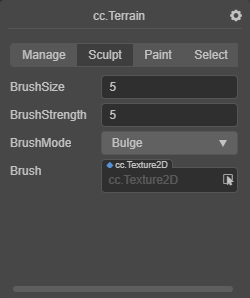
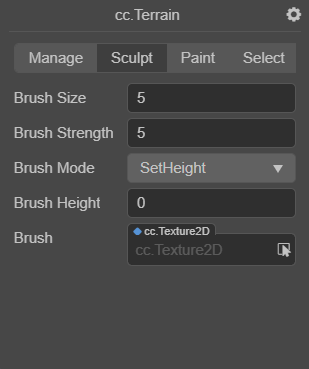
增加地形整平模式和SetHeight模式的文档

diff --git a/zh/editor/terrain/index.md b/zh/editor/terrain/index.md
@@ -58,7 +58,7 @@
 | 参数 | 说明 |
 | :--- | :-- |
 | TileSize | 地形 Tile 的大小，目前一个地形块由 32 x 32 个 Tile 组成，所以一个地形块的边长是 **32 x TileSize** |
-| WeightMapSize | 权重图大小 |
+| WeightMapSize | 权重图s |
 | LightmapSize | 光照贴图大小 |
 | BlockCount | 地形块在两个维度上的数量（**注意**：若该值设置过大会造成顶点数过多，导致卡顿） |
 
@@ -70,12 +70,21 @@
 
 | 参数 | 说明 |
 | :--- | :--- |
-| BrushSize     | 画刷的大小 |
-| BrushStrength | 画刷的力度  |
-| BrushMode | 画刷类型，包括 **Bulge**、**Sunken** 和 **Smooth** |
-| Brush | 自定义画刷样式，通过选取样式图片生成自定义画刷 |
+| Brush Size | 画刷的大小 |
+| Brush Strength | 画刷的力度  |
+| Brush Mode | 画刷类型，包括 **Bulge**、**Sunken**、**Smooth**、**Flatten**、**Set Height** |
+| Brush Height | 画刷高度，只有画刷模式为**Set Height**时生效 |
+| Brush | 自定义画刷样式，通过选取样式图片生成自定义画刷，使用R通道来作为画刷蒙版 |
 
-可通过 **鼠标左键** 控制地形的 **隆起**，通过 **Shift + 鼠标左键** 控制地形的 **凹陷**。而隆起/凹陷的操作往往会使地形看上去很尖锐，此时就可以使用平滑功能进行过度。
+| 画刷模式 | 说明 |
+| :--- | :--- |
+| Bulge | 隆起地形 |
+| Sunken | 下凹地形  |
+| Smooth | 平滑地形 |
+| Flatten | 整平地形 |
+| Set Height | 使用**画刷高度**设置地形高度 |
+
+通过 **鼠标左键** 来雕刻地形，当使用**Bulge**模式时，还可以通过 **Shift + 鼠标左键** 下凹地形
 
 ### 涂料（Paint）
 

diff --git a/en/editor/terrain/index.md b/en/editor/terrain/index.md
@@ -69,12 +69,21 @@ Sculpting is changing the shape of a terrain.
 
 | Parameter | Description |
 | :--- | :--- |
-| **BrushSize**     | The size of the brush |
-| **BrushStrength** | The strength of the brush |
-| **BrushMode** | The type of the brush, including **Bulge**, **Sunken** and **Smooth** |
-| **Brush** | Custom brush style, by selecting a style picture to generate a custom brush. |
+| **Brush Size**     | The size of the brush |
+| **Brush Strength** | The strength of the brush |
+| **Brush Mode** | The mode of the brush, including **Bulge**, **Sunken**, **Smooth**, **Flatten**, **Set Height** |
+| **Brush Height** | The height of the brush, only use for **Set Height** mode |
+| **Brush** | Custom brush style, by selecting a style picture to generate a custom brush, use a channel as brush mask |
 
-To control the bulging/depression of the terrain, use the **left mouse** button and the **Shift + left mouse** button, respectively. The bulge and depression operation often makes the terrain look sharp, use the smoothing function to overdo it.
+| Brush mode | Description |
+| :--- | :--- |
+| Bulge | Bulge terrain |
+| Sunken | Sunken terrain |
+| Smooth | Smooth terrain |
+| Flatten | Flatten terrain |
+| Set Height | Use **Brush Height** to set terrain height |
+
+use the **left mouse** button to sculpt terrain, also use the **Shift + left mouse** button to depression terrain when in **Bulge** mode, 
 
 ### Painting a terrain
 
